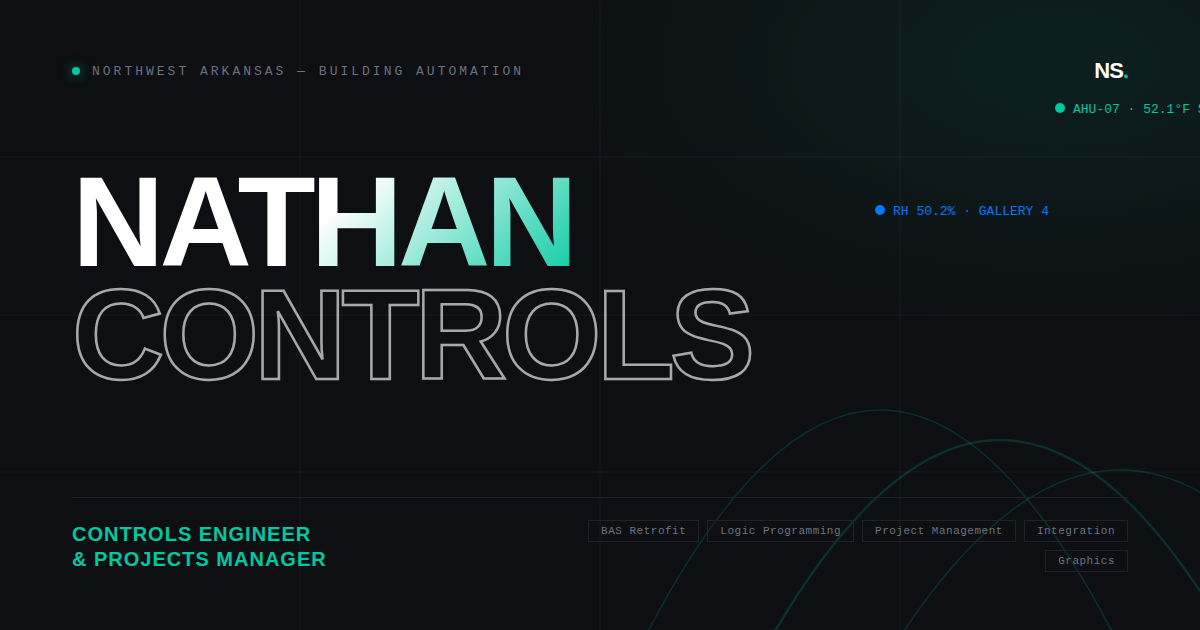
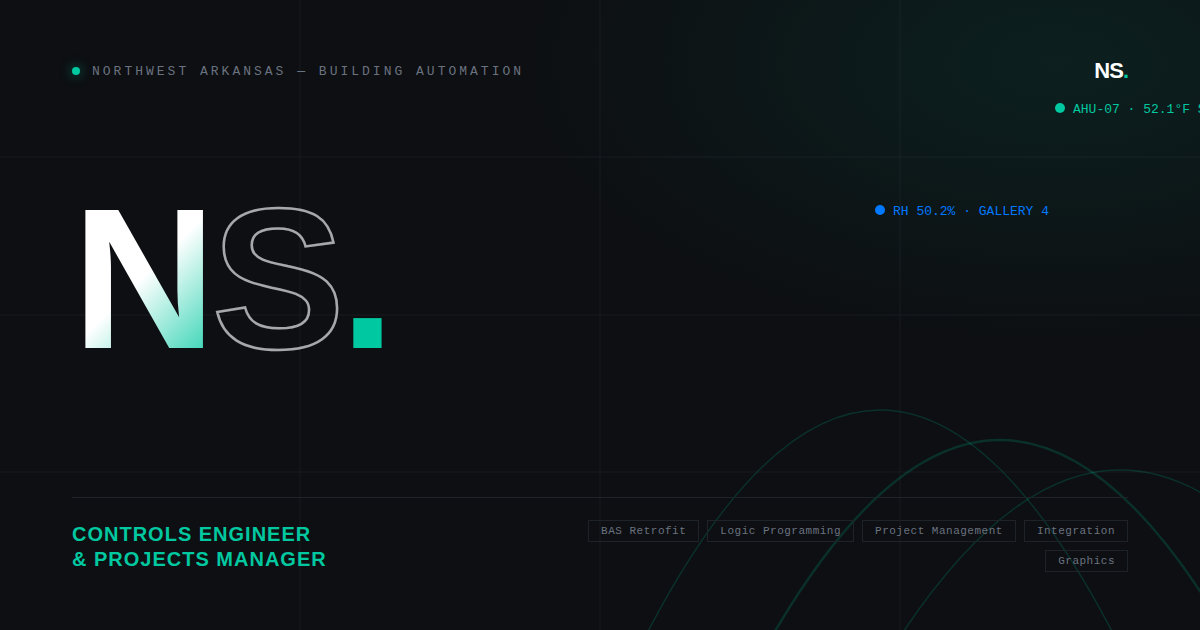
Hero headline reads NS, regenerate matching share thumbnail
https://claude.ai/code/session_019YKJMKT1Mxkt2dk8Bxrte7

Changed region(s): [[0.0617, 0.2714, 0.6167, 0.6032]]

diff --git a/js/main.js b/js/main.js
@@ -226,15 +226,18 @@
   function heroIntro() {
     if (!hasGsap) return;
     var tl = gsap.timeline({ defaults: { ease: 'power4.out' } });
-    tl.fromTo('.hero-meta-row > *',
+    tl.fromTo('.hero-name .line',
+        { yPercent: 115 },
+        { yPercent: 0, duration: 1.25 }, 0)
+      .fromTo('.hero-meta-row > *',
         { y: 24, opacity: 0 },
-        { y: 0, opacity: 1, duration: 0.9, stagger: 0.1 }, 0.1)
+        { y: 0, opacity: 1, duration: 0.9, stagger: 0.1 }, 0.35)
       .fromTo('.hero-bottom > *',
         { y: 30, opacity: 0 },
-        { y: 0, opacity: 1, duration: 0.9, stagger: 0.12 }, 0.3)
+        { y: 0, opacity: 1, duration: 0.9, stagger: 0.12 }, 0.55)
       .fromTo('.nav',
         { y: -30, opacity: 0 },
-        { y: 0, opacity: 1, duration: 0.8 }, 0.25);
+        { y: 0, opacity: 1, duration: 0.8 }, 0.5);
   }
 
   function dismissLoader() {
@@ -252,6 +255,7 @@
     loader.style.display = 'none';
   } else {
     var counter = { v: 0 };
+    gsap.set('.hero-name .line', { yPercent: 115 });
     gsap.set(['.hero-meta-row > *', '.hero-bottom > *'], { opacity: 0 });
     gsap.to(counter, {
       v: 100, duration: 1.35, ease: 'power2.inOut',

diff --git a/css/style.css b/css/style.css
@@ -238,6 +238,27 @@ main, .nav, .marquee { position: relative; z-index: 2; }
   0%, 100% { box-shadow: 0 0 0 0 rgba(0,200,160,.5); }
   50% { box-shadow: 0 0 0 9px rgba(0,200,160,0); }
 }
+.hero-name {
+  font-family: 'Syne', sans-serif;
+  font-weight: 800;
+  font-size: clamp(110px, 26vw, 300px);
+  line-height: .9;
+  letter-spacing: -.05em;
+  text-transform: uppercase;
+  margin-bottom: 3vh;
+}
+.hero-name .hn-solid {
+  background: linear-gradient(135deg, #fff 40%, var(--accent) 100%);
+  -webkit-background-clip: text;
+  background-clip: text;
+  -webkit-text-fill-color: transparent;
+}
+.hero-name .hn-outline {
+  -webkit-text-fill-color: transparent;
+  -webkit-text-stroke: 3px rgba(232, 234, 237, .85);
+  color: transparent;
+}
+.hero-name .hn-dot { color: var(--accent); }
 .hero-bottom {
   display: flex;
   justify-content: space-between;

diff --git a/index.html b/index.html
@@ -67,8 +67,11 @@
           <span class="hero-scroll-line"></span>
         </div>
       </div>
+      <h1 class="hero-name" aria-label="NS">
+        <span class="line-mask"><span class="line"><span class="hn-solid">N</span><span class="hn-outline">S</span><span class="hn-dot">.</span></span></span>
+      </h1>
       <div class="hero-bottom">
-        <h1 class="hero-role" data-reveal>Controls Engineer<br>&amp; Projects Manager</h1>
+        <p class="hero-role" data-reveal>Controls Engineer<br>&amp; Projects Manager</p>
         <p class="hero-summary" data-reveal>
           Versatile building automation engineer with a proven track record across
           commercial, cultural, and industrial settings — leading critical projects
